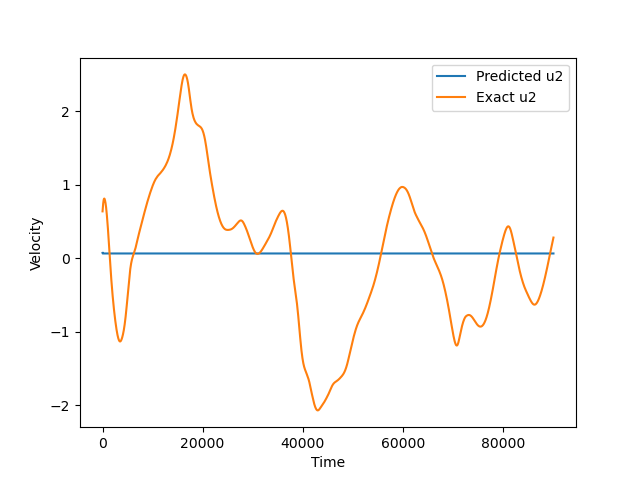
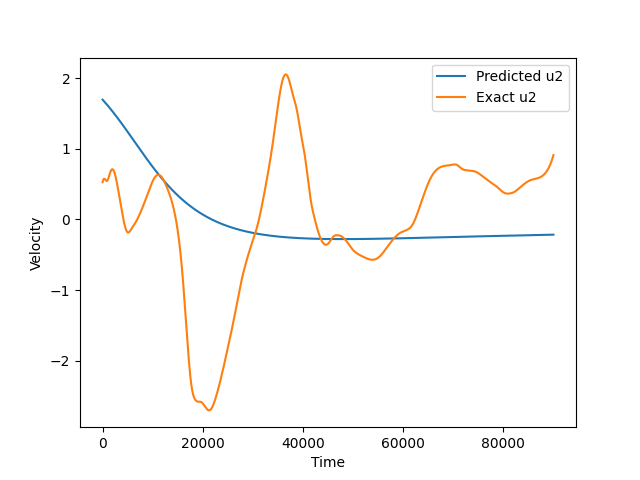
fixe grid

diff --git a/PINNs/pinn_goy.py b/PINNs/pinn_goy.py
@@ -71,8 +71,8 @@ class Train_PINN():
                 # u_pd_split = torch.split(u_t,int(grid_train_data.shape[0]/(k_max-k_min)))
                 # tuple_u_pd = tuple(k for k in u_pd_split)
                 # u_pd = torch.cat(tuple_u_pd,1).to(device)         
-                u_pd = u_pd.view(k_max-k_min,Npts).T
-                u_t = u_t.view(k_max-k_min,Npts).T
+                u_pd = u_pd.view(2*k_max-k_min,Npts).T
+                u_t = u_t.view(2*k_max-k_min,Npts).T
                 u_pd_im = u_pd[:,1::2]
                 u_pd_real = u_pd[:,::2]
                 u_t_im = u_t[:,1::2]
@@ -372,7 +372,7 @@ command = torch.cuda.is_available()
 print(f'cuda is available : {command}')
 
 ######### The data generated by the shell model #######
-PATH =r"/home/s26calme/Documents/code_stage/GOY-main/tmp/" # r"/home/s26calme/Documents/code_stage/Donnees/GOY_modele/Parametre_Ewen/"
+PATH =r"C:\Users\sebc3\Desktop\stage\GOY-main\\" # r"/home/s26calme/Documents/code_stage/Donnees/GOY_modele/Parametre_Ewen/"
 path_data = PATH + "data.dat"
 
 data =  np.loadtxt(path_data,dtype=np.float32) # charge le jeu de données
@@ -413,7 +413,7 @@ nu = 1.e-7     # vicosité
 nb_shell = 22 
 dt = 8.9999e-5
 f=99999.9 # sauvegarde tous les f points
-time = 1000
+time = 1.0
 Steps = time/dt # nombre de pas
 N_fs = int(1/((f-0.1)*dt)) # enregistrement tous les N_fs pas 
 ############ parameters for the PINN ############
@@ -433,7 +433,7 @@ K = [k0*lmb**i for i in range(k_min,k_max)]
 torch.manual_seed(119)
 device = torch.device('cuda' if torch.cuda.is_available() else 'cpu')
 
-model = GOY_PINN(n_input=2,n_output=1,n_hidden=20,n_layers=8)
+model = GOY_PINN(n_input=2,n_output=1,n_hidden=32,n_layers=8)
 model.to(device)
 
 
@@ -485,16 +485,16 @@ Dataloader_grid = DataLoader(grid_dataset,batch_sampler=sampler_grid)
 
 
 
-learning_rate,nbr_iteration,w_1,w_2,w3,w_4 = 0.001,10,1,1,1,1
+learning_rate,nbr_iteration,w_1,w_2,w3,w_4 = 0.001,100,1,1,1,1
 t = Train_PINN(learning_rate,nbr_iteration,w_1,w_2,w3,w_4)
 Total_loss = t.train()
 model.eval().to(device)
 
-U = model(grid_dataset.grille.to(device))
+U = model(grid_dataset.grid.to(device))
 U_split = torch.split(U,Npts)
 U = torch.cat(tuple(k for k in U_split),1).to(device)
 U = U.cpu().detach().numpy()#.detach().numpy().reshape(t_max-t_min,k_max-k_min)
-U_exa = Data_shell[t_min:t_max,k_min:k_max]
+U_exa = Data_shell[0:Npts,k_min:2*k_max]
 
 square_error = (U-U_exa)**2
 rmse = np.sqrt(np.mean(square_error))
